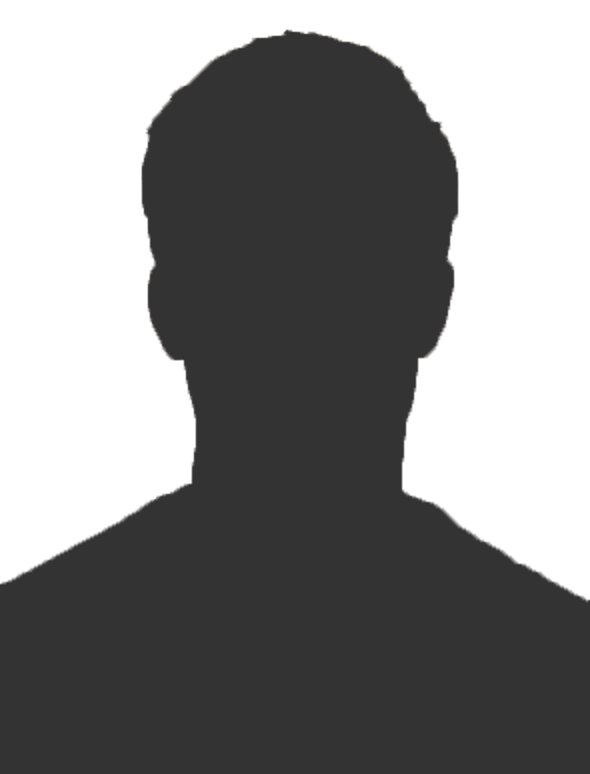
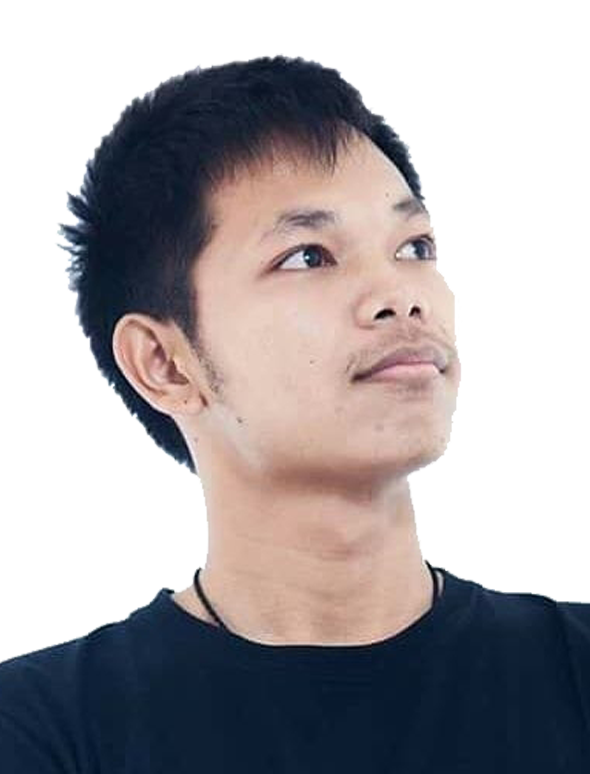
update

diff --git a/index.html b/index.html
@@ -59,7 +59,7 @@
 					<div class='front-person-img' >
 						
 						<!--person's image-->
-						<img src='img/me2.jpg' alt='Symp' >
+						<img src='img/man1.png' alt='Symp' >
 						<!--/person's image-->
 						
 					</div>
